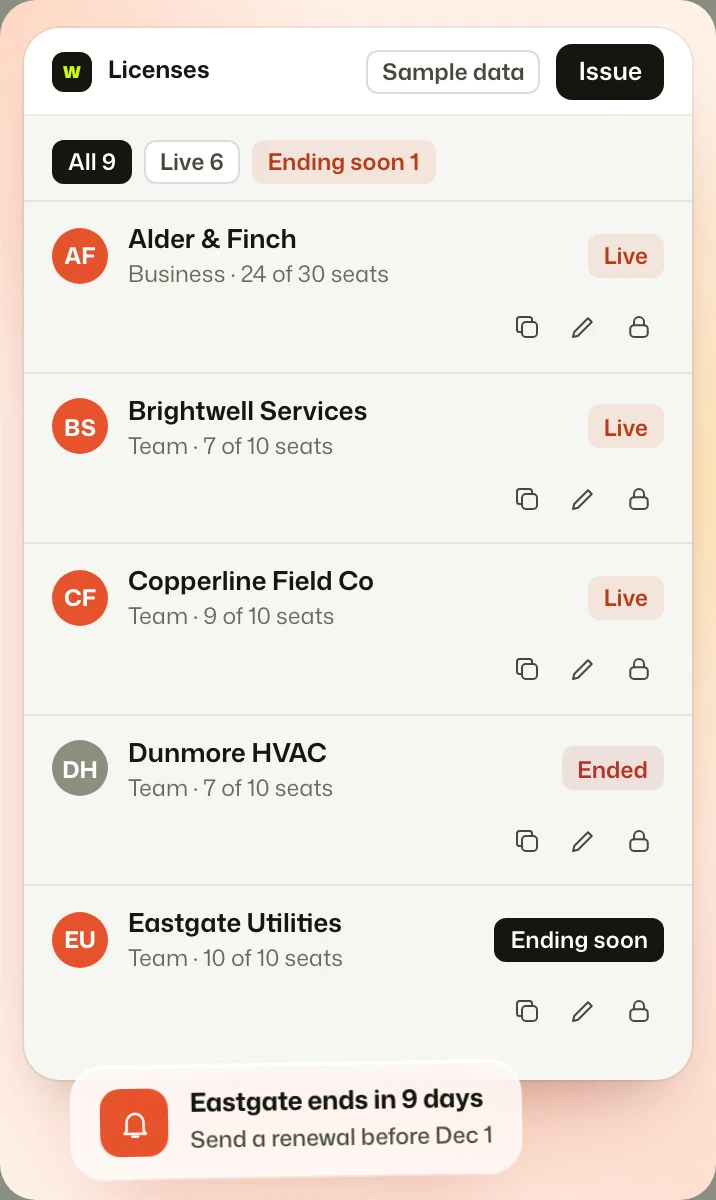
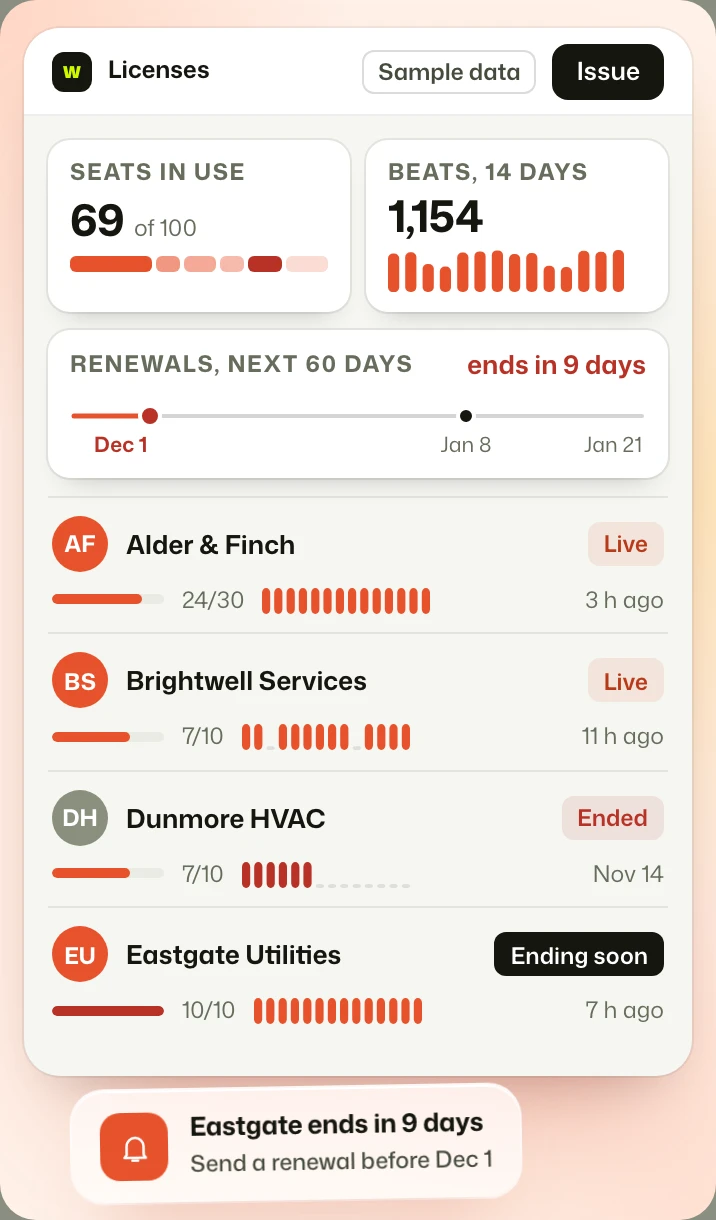
feat(revolution): real data visualisations on 10 app screens and their phone crops
Woody texts, licenses, studio, review, sources, setup and license, Recruitify,
Relora brief and the growth action plan now carry real charts: pipeline and
weekly bars, heartbeat and activity bars, a renewal timeline, a funnel with
conversion, a strength-over-time chart, a voice radar, claim coverage and
impact bars. Same file names, new dimensions, new phone crops.

diff --git a/public/revolution/work.html b/public/revolution/work.html
@@ -2878,10 +2878,10 @@ html[data-mode="dark"] .pl3 img.pl3__tm[alt="Apollo"]{filter:invert(1)}
 <!-- /v4-cases -->
 <!-- real-screens -->
 <section class="s hm v4s rs" id="screens" data-theme="dark"><div class="c2"><div class="tl"><div class="hd"><span class="eyebrow chp">Screens</span><h2 data-split="lime">Tools<span>in use</span></h2></div><p class="pp">Sixteen screens from tools I use and build. Every number and name is sample data. The layouts, states and labels are the real ones.</p></div>
-<div class="rs__g"><div class="rs__hd"><h3>Woody</h3><p>Content Studio. Texts in a person's own voice, every claim tied to a source, a named person approving each version.</p></div><ul class="rs__rail" role="region" aria-label="Woody screens" tabindex="0"><li><figure><picture><source media="(max-width:640px)" srcset="assets/real/ui-woody-studio-m.webp" width="716" height="1060"><img src="assets/real/ui-woody-studio.webp" alt="Woody studio: a prompt, voice and channel options, and four texts waiting for review" width="1520" height="1000" loading="lazy" decoding="async"></picture><figcaption><b>Studio</b><span>One prompt, a voice and a channel. Four texts wait for a decision.</span></figcaption></figure></li><li><figure><picture><source media="(max-width:640px)" srcset="assets/real/ui-woody-review-m.webp" width="716" height="1028"><img src="assets/real/ui-woody-review.webp" alt="Woody review: a draft with struck-out phrases, a checklist and an approve button" width="1520" height="1000" loading="lazy" decoding="async"></picture><figcaption><b>Review</b><span>A draft with the edits shown. The reviewer checks voice, sources and client names, then approves.</span></figcaption></figure></li><li><figure><picture><source media="(max-width:640px)" srcset="assets/real/ui-woody-strategy-m.webp" width="716" height="1212"><img src="assets/real/ui-woody-strategy.webp" alt="Woody strategy: a grid of 42 book pages by status and a list of chapters with progress" width="1520" height="1000" loading="lazy" decoding="async"></picture><figcaption><b>Strategy</b><span>A 42-page content book, 18 pages ready. Next up is Benchmarks, page 5.</span></figcaption></figure></li><li><figure><picture><source media="(max-width:640px)" srcset="assets/real/ui-woody-texts-m.webp" width="716" height="1200"><img src="assets/real/ui-woody-texts.webp" alt="Woody texts: a table of 38 texts with channel, voice, status and checks" width="1520" height="1000" loading="lazy" decoding="async"></picture><figcaption><b>Texts</b><span>38 texts with channel, voice, status and checks. One claim without a source is held back.</span></figcaption></figure></li><li><figure><picture><source media="(max-width:640px)" srcset="assets/real/ui-woody-calendar-m.webp" width="716" height="984"><img src="assets/real/ui-woody-calendar.webp" alt="Woody calendar: a month view with scheduled texts and a list of unscheduled ones" width="1520" height="1000" loading="lazy" decoding="async"></picture><figcaption><b>Calendar</b><span>Seven texts scheduled this month, three still unscheduled. Drag a text onto a day.</span></figcaption></figure></li><li><figure><picture><source media="(max-width:640px)" srcset="assets/real/ui-woody-sources-m.webp" width="716" height="1172"><img src="assets/real/ui-woody-sources.webp" alt="Woody sources: documents, notes and links with state, and claims taken from one source" width="1520" height="1000" loading="lazy" decoding="async"></picture><figcaption><b>Sources</b><span>96% of claims trace to a source. One source cannot be opened and holds its text back.</span></figcaption></figure></li><li><figure><picture><source media="(max-width:640px)" srcset="assets/real/ui-woody-setup-m.webp" width="716" height="1076"><img src="assets/real/ui-woody-setup.webp" alt="Woody setup: a voice with formal and short sliders and a voice match score" width="1520" height="904" loading="lazy" decoding="async"></picture><figcaption><b>Setup</b><span>One voice per person or brand, scored by how well it matches three sample texts.</span></figcaption></figure></li><li><figure><picture><source media="(max-width:640px)" srcset="assets/real/ui-woody-licenses-m.webp" width="716" height="1200"><img src="assets/real/ui-woody-licenses.webp" alt="Woody control: a list of licenses with seats, state and last heartbeat" width="1520" height="1000" loading="lazy" decoding="async"></picture><figcaption><b>Licenses</b><span>The control app: seats, state and last heartbeat per customer. One license ends in nine days.</span></figcaption></figure></li><li><figure><picture><source media="(max-width:640px)" srcset="assets/real/ui-woody-license-m.webp" width="716" height="988"><img src="assets/real/ui-woody-license.webp" alt="Woody control: one ended license with seats, key, last heartbeat and a read-only notice" width="1520" height="1000" loading="lazy" decoding="async"></picture><figcaption><b>One license</b><span>An ended license keeps texts readable and pauses saving. Nothing is deleted.</span></figcaption></figure></li></ul></div>
+<div class="rs__g"><div class="rs__hd"><h3>Woody</h3><p>Content Studio. Texts in a person's own voice, every claim tied to a source, a named person approving each version.</p></div><ul class="rs__rail" role="region" aria-label="Woody screens" tabindex="0"><li><figure><picture><source media="(max-width:640px)" srcset="assets/real/ui-woody-studio-m.webp" width="716" height="1112"><img src="assets/real/ui-woody-studio.webp" alt="Woody studio: a prompt, voice and channel options, and four texts waiting for review" width="1520" height="1000" loading="lazy" decoding="async"></picture><figcaption><b>Studio</b><span>One prompt, a voice and a channel. Four texts wait for a decision.</span></figcaption></figure></li><li><figure><picture><source media="(max-width:640px)" srcset="assets/real/ui-woody-review-m.webp" width="716" height="1188"><img src="assets/real/ui-woody-review.webp" alt="Woody review: a draft with struck-out phrases, a checklist and an approve button" width="1520" height="1120" loading="lazy" decoding="async"></picture><figcaption><b>Review</b><span>A draft with the edits shown. The reviewer checks voice, sources and client names, then approves.</span></figcaption></figure></li><li><figure><picture><source media="(max-width:640px)" srcset="assets/real/ui-woody-strategy-m.webp" width="716" height="1212"><img src="assets/real/ui-woody-strategy.webp" alt="Woody strategy: a grid of 42 book pages by status and a list of chapters with progress" width="1520" height="1000" loading="lazy" decoding="async"></picture><figcaption><b>Strategy</b><span>A 42-page content book, 18 pages ready. Next up is Benchmarks, page 5.</span></figcaption></figure></li><li><figure><picture><source media="(max-width:640px)" srcset="assets/real/ui-woody-texts-m.webp" width="716" height="1220"><img src="assets/real/ui-woody-texts.webp" alt="Woody texts: a table of 38 texts with channel, voice, status and checks" width="1520" height="1120" loading="lazy" decoding="async"></picture><figcaption><b>Texts</b><span>38 texts with channel, voice, status and checks. One claim without a source is held back.</span></figcaption></figure></li><li><figure><picture><source media="(max-width:640px)" srcset="assets/real/ui-woody-calendar-m.webp" width="716" height="984"><img src="assets/real/ui-woody-calendar.webp" alt="Woody calendar: a month view with scheduled texts and a list of unscheduled ones" width="1520" height="1000" loading="lazy" decoding="async"></picture><figcaption><b>Calendar</b><span>Seven texts scheduled this month, three still unscheduled. Drag a text onto a day.</span></figcaption></figure></li><li><figure><picture><source media="(max-width:640px)" srcset="assets/real/ui-woody-sources-m.webp" width="716" height="1224"><img src="assets/real/ui-woody-sources.webp" alt="Woody sources: documents, notes and links with state, and claims taken from one source" width="1520" height="1208" loading="lazy" decoding="async"></picture><figcaption><b>Sources</b><span>96% of claims trace to a source. One source cannot be opened and holds its text back.</span></figcaption></figure></li><li><figure><picture><source media="(max-width:640px)" srcset="assets/real/ui-woody-setup-m.webp" width="716" height="1128"><img src="assets/real/ui-woody-setup.webp" alt="Woody setup: a voice with formal and short sliders and a voice match score" width="1520" height="984" loading="lazy" decoding="async"></picture><figcaption><b>Setup</b><span>One voice per person or brand, scored by how well it matches three sample texts.</span></figcaption></figure></li><li><figure><picture><source media="(max-width:640px)" srcset="assets/real/ui-woody-licenses-m.webp" width="716" height="1220"><img src="assets/real/ui-woody-licenses.webp" alt="Woody control: a list of licenses with seats, state and last heartbeat" width="1520" height="1120" loading="lazy" decoding="async"></picture><figcaption><b>Licenses</b><span>The control app: seats, state and last heartbeat per customer. One license ends in nine days.</span></figcaption></figure></li><li><figure><picture><source media="(max-width:640px)" srcset="assets/real/ui-woody-license-m.webp" width="716" height="1156"><img src="assets/real/ui-woody-license.webp" alt="Woody control: one ended license with seats, key, last heartbeat and a read-only notice" width="1520" height="1128" loading="lazy" decoding="async"></picture><figcaption><b>One license</b><span>An ended license keeps texts readable and pauses saving. Nothing is deleted.</span></figcaption></figure></li></ul></div>
 <div class="rs__g"><div class="rs__hd"><h3>Growth analytics</h3><p>Cohorts, funnels and an action plan on mature data. Cohorts that are still open stay grey.</p></div><ul class="rs__rail" role="region" aria-label="Growth analytics screens" tabindex="0"><li><figure><picture><source media="(max-width:640px)" srcset="assets/real/ui-b2c-summary-m.webp" width="716" height="1132"><img src="assets/real/ui-b2c-summary.webp" alt="Growth analytics summary: new patients, 90-day return, per-patient revenue and a cohort line chart" width="1520" height="1000" loading="lazy" decoding="async"></picture><figcaption><b>Summary</b><span>Volume up 43%, 90-day return down 6.6 points. Only cohorts old enough to count are counted.</span></figcaption></figure></li><li><figure><picture><source media="(max-width:640px)" srcset="assets/real/ui-b2c-cohorts-m.webp" width="716" height="1080"><img src="assets/real/ui-b2c-cohorts.webp" alt="Growth analytics cohorts: a heat table of return by monthly cohort" width="1520" height="1000" loading="lazy" decoding="async"></picture><figcaption><b>Cohorts</b><span>Safari on mobile fell to 12% at day 90, 11 points under the others, from the March cohort.</span></figcaption></figure></li><li><figure><picture><source media="(max-width:640px)" srcset="assets/real/ui-b2c-funnel-m.webp" width="716" height="988"><img src="assets/real/ui-b2c-funnel.webp" alt="Growth analytics funnel: bars from product to paid and a phone showing a dead pay button" width="1520" height="1000" loading="lazy" decoding="async"></picture><figcaption><b>Funnel</b><span>36% reach payment, 14% pay on Safari mobile. The pay button does nothing and shows no error.</span></figcaption></figure></li><li><figure><picture><source media="(max-width:640px)" srcset="assets/real/ui-b2c-action-plan-m.webp" width="716" height="1096"><img src="assets/real/ui-b2c-action-plan.webp" alt="Growth analytics action plan: a table of actions with owner, effort, impact and status" width="1520" height="1000" loading="lazy" decoding="async"></picture><figcaption><b>Action plan</b><span>Fix the Safari payment step first: about 1,670 bookings a month. Every action has an owner and an effort.</span></figcaption></figure></li></ul></div>
-<div class="rs__g"><div class="rs__hd"><h3>Relora</h3><p>A relationship tool: who knows whom, and outreach drafts that wait for approval.</p></div><ul class="rs__rail" role="region" aria-label="Relora screens" tabindex="0"><li><figure><picture><source media="(max-width:640px)" srcset="assets/real/ui-relora-graph-m.webp" width="716" height="1040"><img src="assets/real/ui-relora-graph.webp" alt="Relora relationship graph with the shortest path to one contact" width="1520" height="1000" loading="lazy" decoding="async"></picture><figcaption><b>Relationships</b><span>The shortest path to a contact in two steps, through someone who knows them. Nothing is sent without you.</span></figcaption></figure></li><li><figure><picture><source media="(max-width:640px)" srcset="assets/real/ui-relora-brief-m.webp" width="716" height="920"><img src="assets/real/ui-relora-brief.webp" alt="Relora contact brief: facts, notes, an email draft awaiting approval and a timeline" width="1520" height="1000" loading="lazy" decoding="async"></picture><figcaption><b>Contact brief</b><span>Public facts, private context and an email draft waiting for approval. Private notes stay private.</span></figcaption></figure></li></ul></div>
-<div class="rs__g"><div class="rs__hd"><h3>Recruitify</h3><p>A private build: a job search board with a fit score on every role.</p></div><ul class="rs__rail" role="region" aria-label="Recruitify screens" tabindex="0"><li><figure><picture><source media="(max-width:640px)" srcset="assets/real/ui-recruit-board-m.webp" width="716" height="1044"><img src="assets/real/ui-recruit-board.webp" alt="Recruitify board: roles in columns from saved to offer with fit scores" width="1520" height="1000" loading="lazy" decoding="async"></picture><figcaption><b>Board</b><span>Roles by stage, each with a fit score. Two interviews this week.</span></figcaption></figure></li></ul></div>
+<div class="rs__g"><div class="rs__hd"><h3>Relora</h3><p>A relationship tool: who knows whom, and outreach drafts that wait for approval.</p></div><ul class="rs__rail" role="region" aria-label="Relora screens" tabindex="0"><li><figure><picture><source media="(max-width:640px)" srcset="assets/real/ui-relora-graph-m.webp" width="716" height="1040"><img src="assets/real/ui-relora-graph.webp" alt="Relora relationship graph with the shortest path to one contact" width="1520" height="1000" loading="lazy" decoding="async"></picture><figcaption><b>Relationships</b><span>The shortest path to a contact in two steps, through someone who knows them. Nothing is sent without you.</span></figcaption></figure></li><li><figure><picture><source media="(max-width:640px)" srcset="assets/real/ui-relora-brief-m.webp" width="716" height="1120"><img src="assets/real/ui-relora-brief.webp" alt="Relora contact brief: facts, notes, an email draft awaiting approval and a timeline" width="1520" height="1112" loading="lazy" decoding="async"></picture><figcaption><b>Contact brief</b><span>Public facts, private context and an email draft waiting for approval. Private notes stay private.</span></figcaption></figure></li></ul></div>
+<div class="rs__g"><div class="rs__hd"><h3>Recruitify</h3><p>A private build: a job search board with a fit score on every role.</p></div><ul class="rs__rail" role="region" aria-label="Recruitify screens" tabindex="0"><li><figure><picture><source media="(max-width:640px)" srcset="assets/real/ui-recruit-board-m.webp" width="716" height="1360"><img src="assets/real/ui-recruit-board.webp" alt="Recruitify board: roles in columns from saved to offer with fit scores" width="1520" height="1224" loading="lazy" decoding="async"></picture><figcaption><b>Board</b><span>Roles by stage, each with a fit score. Two interviews this week.</span></figcaption></figure></li></ul></div>
 </div></section>
 <!-- /real-screens -->
 <section class="s cl" data-theme="dark"><svg class="lau" viewBox="0 0 48 30" aria-hidden="true"><path d="M20 27C10 25 4 15 7 2"/><path d="M28 27C38 25 44 15 41 2"/><ellipse cx="13" cy="27.5" rx="4" ry="1.6" transform="rotate(20 13 27.5)"/><ellipse cx="35" cy="27.5" rx="4" ry="1.6" transform="rotate(-20 35 27.5)"/><ellipse cx="7.5" cy="22.5" rx="4" ry="1.6" transform="rotate(45 7.5 22.5)"/><ellipse cx="40.5" cy="22.5" rx="4" ry="1.6" transform="rotate(-45 40.5 22.5)"/><ellipse cx="3.8" cy="16.5" rx="4" ry="1.6" transform="rotate(75 3.8 16.5)"/><ellipse cx="44.2" cy="16.5" rx="4" ry="1.6" transform="rotate(-75 44.2 16.5)"/><ellipse cx="2.6" cy="10" rx="4" ry="1.6" transform="rotate(95 2.6 10)"/><ellipse cx="45.4" cy="10" rx="4" ry="1.6" transform="rotate(-95 45.4 10)"/><ellipse cx="3.6" cy="3.6" rx="4" ry="1.6" transform="rotate(118 3.6 3.6)"/><ellipse cx="44.4" cy="3.6" rx="4" ry="1.6" transform="rotate(-118 44.4 3.6)"/><ellipse cx="11.6" cy="19.6" rx="3" ry="1.25" transform="rotate(62 11.6 19.6)"/><ellipse cx="36.4" cy="19.6" rx="3" ry="1.25" transform="rotate(-62 36.4 19.6)"/><ellipse cx="8.9" cy="13.4" rx="3" ry="1.25" transform="rotate(86 8.9 13.4)"/><ellipse cx="39.1" cy="13.4" rx="3" ry="1.25" transform="rotate(-86 39.1 13.4)"/><ellipse cx="9" cy="7.2" rx="3" ry="1.25" transform="rotate(112 9 7.2)"/><ellipse cx="39" cy="7.2" rx="3" ry="1.25" transform="rotate(-112 39 7.2)"/></svg><p>Live demos, open source repos, MVPs and case studies</p><a class="btn" href="gtm.html#case">Read a case <i>→</i></a></section><div class="sx" id="sx" hidden role="dialog" aria-modal="true" aria-label="Search 16 projects"><svg class="contours" data-seed="88" aria-hidden="true"></svg><div class="sx__l"><label class="sx__q"><svg viewBox="0 0 24 24" aria-hidden="true"><circle cx="10.5" cy="10.5" r="6.5"/><path d="M15.5 15.5 21 21"/></svg><input id="sxq" type="search" placeholder="Search" autocomplete="off" aria-label="Search 16 projects"></label><div class="sx__f" role="group" aria-label="Category"><button class="on" data-f="*">All<sup>16</sup></button><button data-f="AI GTM">AI GTM<sup>6</sup></button><button data-f="Growth architecture">Growth architecture<sup>2</sup></button><button data-f="Products">Products<sup>8</sup></button></div><ol class="sx__rs" data-lenis-prevent><li class="sx__r" data-c="Products" data-img="assets/career/wt-academy.webp" data-k="Products" data-d="Most AI training sells tool names, not the operating process behind them." data-q="academy  most ai training sells tool names, not the operating process behind them. products"><a href="https://wojciech.io/apps/academy/"><span>Academy</span><sup>Products</sup></a></li><li class="sx__r" data-c="AI GTM" data-img="assets/tools/adsai-dash.webp" data-k="AI GTM · Live demo" data-d="Ad optimization work was split between reports, intuition, and repeated checks." data-q="adsai  ad optimization work was split between reports, intuition, and repeated checks. ai gtm"><a href="https://ads-assistant-three.vercel.app/"><span>AdsAI</span><sup>AI GTM</sup></a></li><li class="sx__r" data-c="Products" data-img="assets/tools/woody-studio.webp" data-k="Products · Internal tool" data-d="Drafts lived in documents and style lived in people's heads. Nobody could say where a text came from or who had signed it off." data-q="content studio  drafts lived in documents and style lived in people's heads. nobody could say where a text came from or who had signed it off. products"><a href="https://wojciech.io/insights/ai-content-studio-approval-workflow/"><span>Content Studio</span><sup>Products</sup></a></li><li class="sx__r" data-c="Growth architecture" data-img="assets/career/wt-getresponse.webp" data-k="Growth architecture" data-d="Marketing was a series of one-off campaigns with no operating model underneath. CRM held contact data but no lifecycle logic. SEO was ad hoc. Winback didn't exist. There was no single place that showed where revenue came from and what to do next." data-q="full-stack growth system mid-market b2b saas marketing was a series of one-off campaigns with no operating model underneath. crm held contact data but no lifecycle logic. seo was ad hoc. winback didn't exist. there was no single place that showed where revenue came from and what to do next. growth architecture"><a href="marketing.html#case"><span>Full-stack growth system</span><sup>Growth architecture</sup></a></li><li class="sx__r" data-c="Products" data-img="assets/tools/growthhub-b.webp" data-k="Products · Live demo" data-d="Growth signals scattered across GA4, the CRM, and ad platforms." data-q="growthhub  growth signals scattered across ga4, the crm, and ad platforms. products"><a href="https://wojciech.io/apps/growthhub/"><span>GrowthHub</span><sup>Products</sup></a></li><li class="sx__r" data-c="AI GTM" data-img="assets/tools/starter-a.webp" data-k="AI GTM · Open source" data-d="Operators wanted AI-native GTM workflows but had no structured starting point: just blank Claude sessions and scattered prompt tips." data-q="claude code gtm agent starter pack  operators wanted ai-native gtm workflows but had no structured starting point: just blank claude sessions and scattered prompt tips. ai gtm"><a href="https://github.com/wojciechluszczynski/gtm-agent-repo"><span>Claude Code GTM Agent Starter Pack</span><sup>AI GTM</sup></a></li><li class="sx__r" data-c="Products" data-img="assets/tools/recruitify-a.webp" data-k="Products · Private build" data-d="Job search work fragments fast: jobs scattered across tabs, applications half-tracked in spreadsheets, no signal on priorities or pipeline health." data-q="recruitify  job search work fragments fast: jobs scattered across tabs, applications half-tracked in spreadsheets, no signal on priorities or pipeline health. products"><a href="https://wojciech.io/work/"><span>Recruitify</span><sup>Products</sup></a></li><li class="sx__r" data-c="Products" data-img="assets/career/wt-kade.webp" data-k="Products" data-d="Bookmarks pile up with no signal for which link is worth reopening." data-q="kade  bookmarks pile up with no signal for which link is worth reopening. products"><a href="https://wojciech.io/apps/kade/"><span>Kade</span><sup>Products</sup></a></li><li class="sx__r" data-c="Products" data-img="assets/tools/camper-live.webp" data-k="Products · Live demo" data-d="Rental demand needed a clearer path from browsing to booking." data-q="camper rental booking engine  rental demand needed a clearer path from browsing to booking. products"><a href="https://camper-rental-weld.vercel.app/"><span>Camper Rental Booking Engine</span><sup>Products</sup></a></li><li class="sx__r" data-c="AI GTM" data-img="assets/career/wt-webwave.webp" data-k="AI GTM" data-d="Mac cleanup apps delete silently, use scare tactics, and give no audit trail. Users either ignore the problem or hand control to a black box." data-q="klaro local-first mac care mac cleanup apps delete silently, use scare tactics, and give no audit trail. users either ignore the problem or hand control to a black box. ai gtm"><a href="https://wojciech.io/work/"><span>Klaro</span><sup>AI GTM</sup></a></li><li class="sx__r" data-c="Products" data-img="assets/career/wt-miniapps.webp" data-k="Products" data-d="Recurring operational gaps that SaaS subscriptions were too heavy to fill: each problem needed a focused tool, not a platform." data-q="działka+, paczka+, resume+  recurring operational gaps that saas subscriptions were too heavy to fill: each problem needed a focused tool, not a platform. products"><a href="https://wojciech.io/work/"><span>Działka+, Paczka+, Resume+</span><sup>Products</sup></a></li><li class="sx__r" data-c="AI GTM" data-img="assets/tools/notch-a.webp" data-k="AI GTM · Product" data-d="Notes sit away from the camera, which breaks eye contact during calls and demos." data-q="notchcue  notes sit away from the camera, which breaks eye contact during calls and demos. ai gtm"><a href="https://wojciech.io/apps/notch/"><span>NotchCue</span><sup>AI GTM</sup></a></li><li class="sx__r" data-c="AI GTM" data-img="assets/career/wt-sentione.webp" data-k="AI GTM" data-d="A B2B SaaS team was running outbound from a mix of manually-enriched spreadsheets, Apollo exports, and instinct. Coverage was inconsistent, personalization was template-based, and the cycle from list to sent sequence was two to three weeks." data-q="outbound intelligence system  a b2b saas team was running outbound from a mix of manually-enriched spreadsheets, apollo exports, and instinct. coverage was inconsistent, personalization was template-based, and the cycle from list to sent sequence was two to three weeks. ai gtm"><a href="https://wojciech.io/insights/claude-code-vs-clay"><span>Outbound intelligence system</span><sup>AI GTM</sup></a></li><li class="sx__r" data-c="Products" data-img="assets/tools/relora-home.webp" data-k="Products · Live demo" data-d="Important owner conversations lived across inboxes, notes, and memory." data-q="relora  important owner conversations lived across inboxes, notes, and memory. products"><a href="https://relora-jet.vercel.app/"><span>Relora</span><sup>Products</sup></a></li><li class="sx__r" data-c="Growth architecture" data-img="assets/career/wt-symfonia.webp" data-k="Growth architecture" data-d="The company had strong product-market fit in a tight vertical but a commercial model built for the founder's network, not for scale. Pipeline was unpredictable, ICP was broadly defined, and every deal above a threshold required founder involvement to close." data-q="revenue architecture series a vertical saas the company had strong product-market fit in a tight vertical but a commercial model built for the founder's network, not for scale. pipeline was unpredictable, icp was broadly defined, and every deal above a threshold required founder involvement to close. growth architecture"><a href="https://wojciech.io/work/"><span>Revenue architecture</span><sup>Growth architecture</sup></a></li><li class="sx__r" data-c="AI GTM" data-img="assets/career/wt-coach.webp" data-k="AI GTM" data-d="Existing fitness apps either require subscriptions, send health data to remote servers, or fragment the experience across devices without a single coherent plan." data-q="wojciech coach apple-native running coach existing fitness apps either require subscriptions, send health data to remote servers, or fragment the experience across devices without a single coherent plan. ai gtm"><a href="https://wojciech.io/work/"><span>Wojciech Coach</span><sup>AI GTM</sup></a></li></ol><p class="sx__n" aria-live="polite"></p></div><figure class="sx__pv"><img src="" alt=""><figcaption><small></small><p></p><a class="btn" href="#">Open <i>↗</i></a></figcaption></figure><button class="sx__x" type="button" aria-label="Close search"><i></i><i></i></button></div><section class="s ft" id="book" data-theme="lime">

diff --git a/public/revolution/marketing.html b/public/revolution/marketing.html
@@ -2910,8 +2910,8 @@ html[data-mode="dark"] .pl3 img.pl3__tm[alt="Apollo"]{filter:invert(1)}
 
 <section class="s mk-tools mk-sheet" data-theme="dark"><div class="mk-w"><div class="lh-cv lh-cv--b mk-cv"><i class="lh-cv__plus" aria-hidden="true">+</i><div class="lh-cv__t"><span class="eyebrow">In production</span><h2>Tools I<span>run it with</span></h2></div><div class="lh-cv__art" aria-hidden="true"><img src="assets/real/ui-funnel.webp" alt="" width="640" height="420" loading="lazy" decoding="async"><img src="assets/real/ui-scenarios.webp" alt="" width="640" height="420" loading="lazy" decoding="async"></div></div></div>
   <div class="mk-strip">
-    <a href="work/content-studio.html"><picture><source media="(max-width:640px)" srcset="assets/real/ui-woody-studio-m.webp" width="716" height="1060"><img src="assets/real/ui-woody-studio.webp" alt="Woody Content Studio: a prompt with voice and channel, and four texts waiting for a decision" width="1520" height="1000" loading="lazy" decoding="async"></picture><b>Content Studio</b><span>One sentence in, drafts in two voices out. A named person approves one exact version.</span><em>Internal tool ↗</em></a>
-    <a href="work/content-studio.html"><picture><source media="(max-width:640px)" srcset="assets/real/ui-woody-sources-m.webp" width="716" height="1172"><img src="assets/real/ui-woody-sources.webp" alt="Woody sources: documents, notes and links with their state, and the claims taken from one of them" width="1520" height="1000" loading="lazy" decoding="async"></picture><b>Sources</b><span>Every draft shows which source it came from.</span><em>Internal tool ↗</em></a>
+    <a href="work/content-studio.html"><picture><source media="(max-width:640px)" srcset="assets/real/ui-woody-studio-m.webp" width="716" height="1112"><img src="assets/real/ui-woody-studio.webp" alt="Woody Content Studio: a prompt with voice and channel, and four texts waiting for a decision" width="1520" height="1000" loading="lazy" decoding="async"></picture><b>Content Studio</b><span>One sentence in, drafts in two voices out. A named person approves one exact version.</span><em>Internal tool ↗</em></a>
+    <a href="work/content-studio.html"><picture><source media="(max-width:640px)" srcset="assets/real/ui-woody-sources-m.webp" width="716" height="1224"><img src="assets/real/ui-woody-sources.webp" alt="Woody sources: documents, notes and links with their state, and the claims taken from one of them" width="1520" height="1208" loading="lazy" decoding="async"></picture><b>Sources</b><span>Every draft shows which source it came from.</span><em>Internal tool ↗</em></a>
     <a href="apps/adsai.html"><img src="assets/real/ui-ads-dash.webp" alt="AdsAI dashboard: spend, revenue, ROAS and priorities" width="640" height="420" loading="lazy" decoding="async"><b>AdsAI</b><span>The Google Ads interface is built for configuration. This one is built for decisions.</span><em>Live demo ↗</em></a>
   </div>
 </section>

diff --git a/public/revolution/gtm.html b/public/revolution/gtm.html
@@ -2888,7 +2888,7 @@ html[data-mode="dark"] .pl3 img.pl3__tm[alt="Apollo"]{filter:invert(1)}
       <div class="gt-r__t"><h3>Outbound</h3><p>Account lists scored on buying signals, with AI drafts a person approves.</p>
         <ul><li>ICP score from real buying signals</li><li>A drafted first line per account</li><li>A human check before anything is sent</li></ul>
         <p class="gt-tl"><small>Built with</small><span>Apollo</span><span>Clearbit</span><span>LinkedIn</span><span>Claude</span></p></div>
-      <a class="gt-r__s" href="https://relora-jet.vercel.app/" target="_blank" rel="noopener"><picture><source media="(max-width:640px)" srcset="assets/real/ui-relora-brief-m.webp" width="716" height="920"><img src="assets/real/ui-relora-brief.webp" alt="Relora contact brief: public facts, private context and an email draft that waits for approval" width="1520" height="1000" loading="lazy" decoding="async"></picture><span>App · Relora ↗</span></a></article>
+      <a class="gt-r__s" href="https://relora-jet.vercel.app/" target="_blank" rel="noopener"><picture><source media="(max-width:640px)" srcset="assets/real/ui-relora-brief-m.webp" width="716" height="1120"><img src="assets/real/ui-relora-brief.webp" alt="Relora contact brief: public facts, private context and an email draft that waits for approval" width="1520" height="1112" loading="lazy" decoding="async"></picture><span>App · Relora ↗</span></a></article>
   </div>
 </div></section>
 
